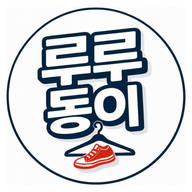
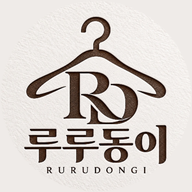
feat(order): 바로구매 → 「바로 주문」(카드)·「지금 바로 주문돼요」(옵션창), 쇼핑몰 진열 상품은 항상 바로 주문 · 카드 배지 종류별 색 알약(반짝임 없음) · 옵션창 「색상/사이즈를 선택해 주세요」는 담기 눌렀을 때만 · 주문 접수 창 「방송 알림 받는 중」 삭제·「휴대폰 홈 화면에 루루동이 주문서 바로가기 만들기」 · 홈 화면 아이콘 새 로고
표시 전용(주문·재고·금액 무접촉). DESIGN.md 배지 기준 갱신.

Claude-Session: https://claude.ai/code/session_01TQMBEC9h6c1TahmvDRkCND

diff --git a/app/order/page.tsx b/app/order/page.tsx
@@ -61,7 +61,7 @@ import { brandWordmarkThumbnail, normalizeBrandKorean, productNameThumbnail, pro
 import { toOptionList } from "@/lib/optionSplit";
 import { widgetPinnedProductId } from "@/lib/widgetPinState";
 // [2026-09-22] 상품 주문 안내 문구 — 문구 원문은 lib 한 곳에서만 정한다(관리자 설정과 같은 파일)
-import { resolveProductNoticePresentationFor, effectiveProductNoticeMode, isInstantOrderProduct } from "@/lib/productOrderNotice";
+import { resolveProductNoticePresentationFor, effectiveProductNoticeMode, isInstantOrderProduct, INSTANT_CARD_BADGE } from "@/lib/productOrderNotice";
 import {
   CUSTOMER_SESSION_VERSION_KEY,
   YOUTUBE_NICKNAME_CONFIRM_VERSION_KEY,
@@ -120,7 +120,7 @@ import {
 } from "@/lib/finalSubmitConfirmation";
 import PWAInstallBanner from "@/components/PWAInstallBanner";
 import { compareMixOrder, mixSeedForToday } from "@/lib/productMixOrder";
-import { pickCardBadgesS6, pickVisibleBadges, BADGE_INFO_KEYS, SOLD_RECENT_MIN_QTY, REPEAT_BADGE_MIN_BUYERS, TOP_SELLER_RANK_PCT, POPULAR_RANK_PCT, HOLDING_MIN_PEOPLE } from "@/lib/productBadgePriority";
+import { pickCardBadgesS6, cardBadgeTone, pickVisibleBadges, BADGE_INFO_KEYS, SOLD_RECENT_MIN_QTY, REPEAT_BADGE_MIN_BUYERS, TOP_SELLER_RANK_PCT, POPULAR_RANK_PCT, HOLDING_MIN_PEOPLE } from "@/lib/productBadgePriority";
 import ProductColorRowV2 from "@/components/customer/ProductColorRowV2";
 import { colorNameSwatch, isLightSwatch, resolveColorDisplay } from "@/lib/colorNameSwatch";
 import { restyleV2 } from "@/lib/customerUiV2Restyle";
@@ -3896,7 +3896,7 @@ export default function OrderPage() {
     });
   }, [broadcastProducts, groupBuyQuickProductsFromCatalog, broadcast?.status, broadcast?.widget_pin_mode, broadcast?.widget_pin_product_id]);
   // [㊺-3] 첫 화면 «지금 바로 주문 가능» 숫자 — 품절 아님 + 바로구매 기준(카드·옵션창과 같은 isInstantOrderProduct). 표시 전용.
-  const instantReadyCount = useMemo(() => quickGroupBuyProducts.filter((p) => !isSoldOutOrderProduct(p) && isInstantOrderProduct((parseProductSuggestionNote((p as any).product_note) as Record<string, unknown> | null)?.order_notice_mode, Array.isArray((p as any).badge_types) && (p as any).badge_types.length ? (p as any).badge_types : [(p as any).badge_type], productNoticeGlobal.mode)).length, [quickGroupBuyProducts, productNoticeGlobal.mode]);
+  const instantReadyCount = useMemo(() => quickGroupBuyProducts.filter((p) => !isSoldOutOrderProduct(p) && isInstantOrderProduct((parseProductSuggestionNote((p as any).product_note) as Record<string, unknown> | null)?.order_notice_mode, Array.isArray((p as any).badge_types) && (p as any).badge_types.length ? (p as any).badge_types : [(p as any).badge_type], productNoticeGlobal.mode, (p as any).in_shop)).length, [quickGroupBuyProducts, productNoticeGlobal.mode]);
 
   // ============ [재고 홀드] 담는 즉시 서버에 예약(15분) — 다른 고객 화면·품절 판정에 즉시 차감 반영 ============
   // ⚠ 진짜 재고 차감/복구는 기존 제출 RPC·취소 복구가 단일 소유(무변경). 이 예약은 표시용 선점 전용이라
@@ -7304,7 +7304,7 @@ export default function OrderPage() {
                                 /* [2026-07-23 사장님 지시] 업체배송 상품 카드 배지 — 표시 전용(배송비 계산과 무관) */
                                 { key: "company", on: productDeliveryLabel(product) === "업체배송", text: "🚚 업체배송", node: <span style={{ borderRadius: "4px", fontSize: "10px", fontWeight: 700, padding: "2px 6px", background: "#EEF2FA", color: "#3B5BA5" }}>🚚 업체배송</span> },
                                 /* 바로구매 — 사장님 지침대로 방송 켜짐/꺼짐과 무관하게 항상 표시(정보 배지, 개수 제한 밖) */
-                                { key: "direct", on: isInstantOrderProduct((parseProductSuggestionNote(product.product_note) as Record<string, unknown> | null)?.order_notice_mode, badges, productNoticeGlobal.mode), text: "🛒 바로구매", node: <span style={{ borderRadius: "4px", fontSize: "10px", fontWeight: 700, padding: "2px 6px", background: "#E8F0FE", color: "#1D4ED8" }}>🛒 바로구매</span> },
+                                { key: "direct", on: isInstantOrderProduct((parseProductSuggestionNote(product.product_note) as Record<string, unknown> | null)?.order_notice_mode, badges, productNoticeGlobal.mode, (product as any).in_shop), text: INSTANT_CARD_BADGE, node: <span style={{ borderRadius: "4px", fontSize: "10px", fontWeight: 700, padding: "2px 6px", background: "#E8F0FE", color: "#1D4ED8" }}>🛒 {INSTANT_CARD_BADGE}</span> },
                               ];
                               // [㉜] 새 모양 배지 — 흰 알약+hairline 13px(「특가」만 빨간 글자), 줄당 최대 3개(정보 배지 먼저, 남는 자리에 마케팅).
                               //   「N개 남음」은 배지가 아니라 가격 근처 글씨로(lowTextV2). 어떤 배지를 켤지 판정은 위 그대로.
@@ -7315,7 +7315,8 @@ export default function OrderPage() {
                                 if (sold || textBadges.length === 0) return null;
                                 return (
                                   <div style={{ display: "flex", gap: "8px", marginBottom: "4px", flexWrap: "wrap" }}>
-                                    {textBadges.map((b) => <span key={b.key} style={{ fontSize: "13px", fontWeight: 600, lineHeight: 1.4, color: (b.key === "special" || b.key === "limit") ? "#D30005" : "#111111" }}>{stripDecorativeEmojiV2(String(b.text))}</span>)}
+                                    {/* [2026-10-23 사장님] 배지마다 색 — 연한 바탕+진한 글씨 알약(cardBadgeTone). 반짝임·움직임 없음(읽기 어려움·접근성) */}
+                                    {textBadges.map((b) => { const tone = cardBadgeTone(b.key); return <span key={b.key} style={{ fontSize: "13px", fontWeight: 700, lineHeight: 1.4, color: tone.color, background: tone.bg, borderRadius: "4px", padding: "1px 6px" }}>{stripDecorativeEmojiV2(String(b.text))}</span>; })}
                                   </div>
                                 );
                               }
@@ -8165,6 +8166,7 @@ export default function OrderPage() {
               productCustom: optionNoticeNote.order_notice_custom,
               globalMode: productNoticeGlobal.mode,
               globalCustom: productNoticeGlobal.custom,
+              inShop: (registeredOptionSelectProduct as any).in_shop,
             });
             return (
           <CustomerBottomSheet
@@ -8690,7 +8692,7 @@ export default function OrderPage() {
                       )}
                       {!uiV2 && registeredOptionColorChoices.length > 4 && registeredOptionColorSwatches[registeredOptionColor] ? <ProductColorSwatches value={{[registeredOptionColor]:registeredOptionColorSwatches[registeredOptionColor]}}/> : null}
                       {/* [2026-08-28 P0-4] 문구가 사라질 때 아래 버튼이 위로 밀려 오클릭이 나던 문제 → 자리를 항상 잡아둔다 */}
-                      <div data-order-option-missing={!registeredOptionColor.trim() ? "true" : undefined} style={sv({ marginTop: "6px", minHeight: "18px", fontSize: "12px", fontWeight: 700, color: registeredOptionAttempted ? "#C0392B" : "#817379" })}>{!registeredOptionColor.trim() ? "색상을 선택해 주세요" : ""}</div>
+                      <div data-order-option-missing={!registeredOptionColor.trim() ? "true" : undefined} style={sv({ marginTop: "6px", minHeight: "18px", fontSize: "12px", fontWeight: 700, color: registeredOptionAttempted ? "#C0392B" : "#817379" })}>{!registeredOptionColor.trim() && registeredOptionAttempted ? "색상을 선택해 주세요" : ""}</div>
                     </div>
                   ) : null}
 
@@ -8754,7 +8756,7 @@ export default function OrderPage() {
                         </select>
                       )}
                       {/* [2026-08-28 P0-4] 문구가 사라질 때 아래 버튼이 위로 밀려 오클릭이 나던 문제 → 자리를 항상 잡아둔다 */}
-                      <div data-order-option-missing={!registeredOptionSize.trim() ? "true" : undefined} style={sv({ marginTop: "6px", minHeight: "18px", fontSize: "12px", fontWeight: 700, color: registeredOptionAttempted ? "#C0392B" : "#817379" })}>{!registeredOptionSize.trim() ? "사이즈를 선택해 주세요" : ""}</div>
+                      <div data-order-option-missing={!registeredOptionSize.trim() ? "true" : undefined} style={sv({ marginTop: "6px", minHeight: "18px", fontSize: "12px", fontWeight: 700, color: registeredOptionAttempted ? "#C0392B" : "#817379" })}>{!registeredOptionSize.trim() && registeredOptionAttempted ? "사이즈를 선택해 주세요" : ""}</div>
                       {/* [2026-09-20 사장님] 치수 칩 — 사이즈를 고르면 그 사이즈 열의 앞 3개 치수(가슴단면 57 …)를 바로 보여준다.
                           원천은 사이즈 실측표(size_charts) 그대로, 전체 표는 「사이즈 실측 보기」. 표시 전용. */}
                       {registeredOptionSizeChart && registeredOptionSize.trim() ? (() => {
@@ -8789,7 +8791,7 @@ export default function OrderPage() {
                       </div>
                       <input value={registeredOptionSize} onChange={(e) => setRegisteredOptionSize(e.target.value)} placeholder="사이즈를 적어주세요 (예: 66, 프리)" style={sv({ height: "46px", width: "100%", boxSizing: "border-box", borderRadius: "14px", border: !registeredOptionSize.trim() ? "2px dashed #E2B64D" : "1.5px solid #E8E2DD", background: !registeredOptionSize.trim() ? "#FFFDF5" : "#fff", padding: "0 14px", fontSize: "15px", fontWeight: 700, color: "#222", outline: "none" })} />
                       {/* [2026-08-28 P0-4] 문구가 사라질 때 아래 버튼이 위로 밀려 오클릭이 나던 문제 → 자리를 항상 잡아둔다 */}
-                      <div data-order-option-missing={!registeredOptionSize.trim() ? "true" : undefined} style={sv({ marginTop: "6px", minHeight: "18px", fontSize: "12px", fontWeight: 700, color: registeredOptionAttempted ? "#C0392B" : "#817379" })}>{!registeredOptionSize.trim() ? "사이즈를 입력해 주세요" : ""}</div>
+                      <div data-order-option-missing={!registeredOptionSize.trim() ? "true" : undefined} style={sv({ marginTop: "6px", minHeight: "18px", fontSize: "12px", fontWeight: 700, color: registeredOptionAttempted ? "#C0392B" : "#817379" })}>{!registeredOptionSize.trim() && registeredOptionAttempted ? "사이즈를 입력해 주세요" : ""}</div>
                     </div>
                   ) : null}
 

diff --git a/components/customer/CustomerPaymentGuideBottomSheet.tsx b/components/customer/CustomerPaymentGuideBottomSheet.tsx
@@ -284,24 +284,20 @@ export default function CustomerPaymentGuideBottomSheet({
             </section>
           )}
 
-          {/* 주문완료 = 참여도 최고점 — 알림 신청·앱 추가는 한 줄 버튼 2개로만 */}
-          {isOrderComplete && (onLiveAlertRequest || !isStandaloneApp) && (
+          {/* 주문완료 = 참여도 최고점 — 알림 신청·앱 추가는 한 줄 버튼 2개로만
+              [2026-10-23 사장님] 「방송 알림 받는 중」 상태 칸 삭제(누를 것도 아닌데 버튼처럼 보임) · 홈 화면 추가는 무엇인지 알아보게 문장으로 */}
+          {isOrderComplete && ((onLiveAlertRequest && !liveAlertOptin) || !isStandaloneApp) && (
             <section style={s5({ marginTop: "12px" })}>
-              <div style={s5({ display: "grid", gridTemplateColumns: onLiveAlertRequest && !isStandaloneApp ? "1fr 1fr" : "1fr", gap: "8px" })}>
-                {onLiveAlertRequest ? (
-                  liveAlertOptin ? (
-                    <div style={s5({ minHeight: "44px", display: "flex", alignItems: "center", justifyContent: "center", borderRadius: "12px", background: "#E1F5EE", border: "1px solid #C7EBDD", padding: "0 10px", fontSize: "12.5px", fontWeight: 800, color: "#0F6E56", textAlign: "center", wordBreak: "keep-all" })}>
-                      {v5 ? "방송 알림 받는 중" : "🔔 방송 알림 받는 중"}
-                    </div>
-                  ) : (
-                    <button type="button" disabled={liveAlertSaving} onClick={onLiveAlertRequest} style={s5({ minHeight: "44px", borderRadius: "12px", border: "1px solid #D9C5CC", background: "#fff", padding: "0 10px", fontSize: "12.5px", fontWeight: 800, color: "#7B2D43", cursor: "pointer" })}>
-                      {liveAlertSaving ? "신청 중..." : v5 ? "방송 알림 받기" : "🔔 방송 알림 받기"}
-                    </button>
-                  )
+              <div style={s5({ display: "grid", gridTemplateColumns: "1fr", gap: "8px" })}>
+                {onLiveAlertRequest && !liveAlertOptin ? (
+                  <button type="button" disabled={liveAlertSaving} onClick={onLiveAlertRequest} style={s5({ minHeight: "44px", borderRadius: "12px", border: "1px solid #D9C5CC", background: "#fff", padding: "0 10px", fontSize: "12.5px", fontWeight: 800, color: "#7B2D43", cursor: "pointer" })}>
+                    {liveAlertSaving ? "신청 중..." : v5 ? "방송 알림 받기" : "🔔 방송 알림 받기"}
+                  </button>
                 ) : null}
                 {!isStandaloneApp ? (
-                  <button type="button" onClick={handleInstallClick} style={s5({ minHeight: "44px", borderRadius: "12px", border: "1px solid #D9C5CC", background: "#fff", padding: "0 10px", fontSize: "12.5px", fontWeight: 800, color: "#7B2D43", cursor: "pointer" })}>
-                    {v5 ? "홈 화면에 추가" : "📲 홈 화면에 추가"}
+                  <button type="button" onClick={handleInstallClick} style={s5({ minHeight: "52px", borderRadius: "12px", border: "1px solid #D9C5CC", background: "#fff", padding: "8px 12px", fontSize: "14px", fontWeight: 800, color: "#7B2D43", cursor: "pointer", lineHeight: 1.35, wordBreak: "keep-all" })}>
+                    {v5 ? "휴대폰 홈 화면에 루루동이 주문서 바로가기 만들기" : "📲 휴대폰 홈 화면에 루루동이 주문서 바로가기 만들기"}
+                    <span style={s5({ display: "block", marginTop: "2px", fontSize: "12px", fontWeight: 600, color: "#8A7A7D" })}>다음부터 아이콘 한 번 누르면 바로 주문서가 열려요</span>
                   </button>
                 ) : null}
               </div>

diff --git a/lib/productOrderNotice.ts b/lib/productOrderNotice.ts
@@ -133,13 +133,16 @@ export function resolveProductNoticePresentationFor(input: {
   productCustom?: unknown;
   globalMode?: unknown;
   globalCustom?: unknown;
+  /** [2026-10-23] 쇼핑몰 진열 상품(in_shop)은 설정 없이도 무조건 바로 주문 */
+  inShop?: unknown;
 }): ProductNoticePresentation {
+  if (input.inShop === true) return { badge: INSTANT_BADGE_TEXT, message: "" };
   const productMode = parseProductNoticeProductMode(input.productMode);
   const mode = productMode === "inherit" ? parseProductNoticeMode(input.globalMode) : productMode;
   const custom = productMode === "inherit" ? input.globalCustom : input.productCustom;
 
-  if (mode === "instant") return { badge: "바로 구매 가능", message: "" };
-  if (mode === "live_only") return { badge: "방송 접수 후 구매 가능", message: "" };
+  if (mode === "instant") return { badge: INSTANT_BADGE_TEXT, message: "" };
+  if (mode === "live_only") return { badge: "방송에서 접수한 분만 주문", message: "" };
   if (mode === "custom") return { badge: "", message: resolveProductOrderNotice(mode, custom) };
   return { badge: "", message: "" };
 }
@@ -151,7 +154,12 @@ export function effectiveProductNoticeMode(productMode: unknown, badgeTypes: unk
   const list = Array.isArray(badgeTypes) ? badgeTypes : [badgeTypes];
   return list.map((x) => String(x ?? "").trim().toLowerCase()).includes("direct") ? "instant" : "inherit";
 }
-export function isInstantOrderProduct(productMode: unknown, badgeTypes: unknown, globalMode: unknown): boolean {
+// [2026-10-23 사장님 「난독증 손님도 알아듣게」] 옵션창 가격 옆 = 「지금 바로 주문돼요」, 상품 카드 배지 = 「바로 주문」
+export const INSTANT_BADGE_TEXT = "지금 바로 주문돼요";
+export const INSTANT_CARD_BADGE = "바로 주문";
+/** 바로 주문 상품인지 — [2026-10-23] 쇼핑몰 진열(in_shop=true) 상품은 설정과 무관하게 무조건 바로 주문 */
+export function isInstantOrderProduct(productMode: unknown, badgeTypes: unknown, globalMode: unknown, inShop?: unknown): boolean {
+  if (inShop === true) return true;
   const m = effectiveProductNoticeMode(productMode, badgeTypes);
   return m === "inherit" ? parseProductNoticeMode(globalMode) === "instant" : m === "instant";
 }

diff --git a/lib/productBadgePriority.ts b/lib/productBadgePriority.ts
@@ -145,3 +145,23 @@ export function pickCardBadgesS6(activeKeys: BadgeKey[], max = 2): BadgeKey[] {
   const rest = Array.from(pickVisibleBadges(uniq.filter((k) => !head.includes(k as (typeof CARD_BADGE_HEAD_S6)[number])), 99));
   return [...head, ...rest].slice(0, Math.max(0, max));
 }
+
+// [2026-10-23 사장님 「배지 단어마다 색깔 달라야 눈에 띔」] 상품 카드 배지 = 종류마다 연한 바탕 + 진한 글씨 알약(13px).
+//   반짝임·움직임은 넣지 않는다 — 깜빡이는 글씨는 읽기 어렵고(중장년 손님) 웹 접근성 기준(WCAG 2.2.2·2.3.1)에도 걸린다.
+//   쿠팡(로켓배송 파랑)·무신사(단독·쿠폰 색 구분)처럼 «색으로 종류 구분»만. 대비 4.5:1 이상 색만 씀.
+export const CARD_BADGE_TONE: Record<string, { color: string; bg: string }> = {
+  special: { color: "#D30005", bg: "#FDECEC" },   // 특가 — 빨강
+  limit: { color: "#FFFFFF", bg: "#D30005" },     // 마감임박 — 빨강 바탕(가장 급함)
+  direct: { color: "#0B6B3A", bg: "#E5F4EC" },    // 바로 주문 — 초록
+  new: { color: "#1D4ED8", bg: "#EAF0FF" },       // 신상 — 파랑
+  company: { color: "#8A4B00", bg: "#FFF1DC" },   // 업체배송 — 갈색
+  overseas: { color: "#6B2FA3", bg: "#F3ECFB" },  // 해외배송 — 보라
+  freeship: { color: "#0E6274", bg: "#E3F3F6" },  // 무료배송 — 청록
+  hot: { color: "#B53A00", bg: "#FFEDE3" },       // 인기 — 주황
+  trending: { color: "#B53A00", bg: "#FFEDE3" },  // 급상승 — 주황
+  pick: { color: "#9C1C5B", bg: "#FCE8F1" },      // 루루픽 — 자주
+  free: { color: "#0B6B3A", bg: "#E5F4EC" },      // 무료나눔 — 초록
+};
+export function cardBadgeTone(key: string): { color: string; bg: string } {
+  return CARD_BADGE_TONE[key] || { color: "#39393B", bg: "#F0F0F0" };
+}

diff --git a/components/admin-live/quick-product/QuickProductFastForm.tsx b/components/admin-live/quick-product/QuickProductFastForm.tsx
@@ -3739,8 +3739,9 @@ export default function QuickProductFastForm({
                     <button type="button" aria-pressed={!instant} style={btn(!instant)} onClick={() => { setFormTouched(true); setOrderNoticeMode("live_only"); setBadgeTypes((prev) => prev.filter((x) => x !== "direct")); }}>방송 접수 후 구매</button>
                   </div>
                   <div style={{ marginTop: "6px", fontSize: "11px", color: "var(--color-ink-mute)" }}>
-                    {instant ? "방송 접수 없이 바로 주문할 수 있어요 · 손님 카드에 「바로구매」 표시" : "방송에서 접수한 분만 주문할 수 있어요"}
+                    {instant ? "방송 접수 없이 바로 주문할 수 있어요 · 손님 카드에 「바로 주문」 표시" : "방송에서 접수한 분만 주문할 수 있어요"}
                   </div>
+                  <div style={{ marginTop: "2px", fontSize: "11px", color: "var(--color-ink-mute)" }}>쇼핑몰에 진열한 상품은 이 설정과 상관없이 항상 「바로 주문」이에요</div>
                 </>
               );
             })()}

diff --git a/app/manifest.ts b/app/manifest.ts
@@ -3,7 +3,8 @@ import type { MetadataRoute } from "next";
 // [2026-09-20] 손님 폰 홈 화면 설치(PWA) 설정.
 //   근거: MDN 「Define your app icons」 + web app manifest 스펙 + evilmartians 「How to Favicon in 2026」(직접 확인).
 //   아이콘 파일은 app/ 폴더 규칙(favicon.ico · icon.svg · apple-icon.png)으로 자동 연결되고,
-//   설치 아이콘(192/512/maskable)은 예전 루루동이 로고 그대로 — 이미 설치한 손님의 아이콘이 안 바뀐다.
+//   [2026-10-23 사장님] 홈 화면 아이콘 = 새 루루동이 로고(옷걸이 RD·종이 바탕). 192/512/maskable(안전영역 82%)·apple-icon 180·favicon 모두 같은 그림.
+//   이미 추가한 손님: 안드로이드 크롬은 며칠 안에 새 아이콘으로 자동 갱신, 아이폰은 지우고 다시 추가해야 바뀐다.
 export default function manifest(): MetadataRoute.Manifest {
   return {
     // id 를 고정해야 start_url 을 바꿔도 «같은 앱»으로 인식돼 중복 설치가 안 생긴다(W3C manifest id)

diff --git a/DESIGN.md b/DESIGN.md
@@ -107,7 +107,8 @@ size:
 - 할인: 정가 14px mute 취소선 + 「N% 할인」 sale 600 → 아래 판매가 20px/700 ink.
 - **남은 수량**: 남은 수량이 **10개 이하일 때만** 가격 근처에 sale 빨간 글씨 「N개 남음」(이모지·색 배지 없음). 0개면 「품절」, 담기 막힘. 숫자 계산(재고 − 다른 손님 장바구니 선점)은 현행 그대로.
 - **판매 수량은 표시하지 않음** (「N개 판매」, 「N명 구매」 등 금지).
-- **[2026-10-20 ㊴ 6단계]** 배지 = 테두리 없는 13px 글자 «최대 2개» — 「특가」만 sale 빨강(#D30005), 나머지 mute(#707072). 우선순위 특가 > 바로구매 > 신상 > 그 외(lib/productBadgePriority pickCardBadgesS6). 「방송 접수 없이 지금 바로 구매 가능」 문장 삭제(「바로구매」 배지와 중복).
+- **[2026-10-23 사장님]** 카드 배지 = 종류마다 **연한 바탕 + 진한 글씨 알약**(13px/700, 모서리 4) «최대 2개» — 특가 빨강 #D30005/#FDECEC · 마감임박 흰 글씨/#D30005 · 바로 주문 초록 #0B6B3A/#E5F4EC · 신상 파랑 #1D4ED8/#EAF0FF · 업체배송 갈색 #8A4B00/#FFF1DC · 해외배송 보라 #6B2FA3/#F3ECFB · 무료배송 청록 · 인기·급상승 주황 · 루루픽 자주(lib/productBadgePriority CARD_BADGE_TONE). **반짝임·움직임 금지**(읽기 어려움·WCAG 2.2.2/2.3.1). 「바로구매」 글자 → 카드 「바로 주문」, 옵션창 가격 옆 「지금 바로 주문돼요」, 방송 접수 상품 「방송에서 접수한 분만 주문」. 쇼핑몰 진열(in_shop) 상품은 설정 없이 항상 바로 주문. 옵션창 「색상/사이즈를 선택해 주세요」 회색 안내는 담기를 눌렀을 때만(빨강) — 버튼 글자와 중복 금지. 주문 접수 창: 「방송 알림 받는 중」 칸 없음, 「휴대폰 홈 화면에 루루동이 주문서 바로가기 만들기」+「다음부터 아이콘 한 번 누르면 바로 주문서가 열려요」. 홈 화면 아이콘 = 새 루루동이 로고(옷걸이 RD).
+- (옛 기준·대체됨) **[2026-10-20 ㊴ 6단계]** 배지 = 테두리 없는 13px 글자 «최대 2개» — 「특가」만 sale 빨강(#D30005), 나머지 mute(#707072). 우선순위 특가 > 바로구매 > 신상 > 그 외(lib/productBadgePriority pickCardBadgesS6). 「방송 접수 없이 지금 바로 구매 가능」 문장 삭제(「바로구매」 배지와 중복).
 - **[2026-10-20 ㊴ 6단계]** 상품 칸 아무 데나 탭 = 옵션 창(「+ 담기」와 같은 동작). 사진 탭도 옵션 창(확대는 옵션 창 사진·「크게」). 품절 상품은 칸 탭 동작 없음·사진은 지금처럼 확대. 칸 안의 버튼(「+ 담기」·세부상품 줄 등)은 자기 동작.
 - **「+ 담기」(크게 보기)**: 사진 오른쪽 아래 안쪽 8px, ink #111111 알약 높이 40px(누르는 범위는 둘레 여백 포함 44px 이상), 흰 글자 15/600, + 는 얇은 선 아이콘(1.5px), 흰 1.5px 테두리(어두운 사진에서도 보이게). 사진 확대 버튼 «안»이 아니라 형제로 겹침 — 담기를 눌러도 확대는 안 열리고, 사진의 나머지 부분은 지금처럼 확대. 품절이면 회색 「품절」·눌리지 않음(기존 규칙 그대로).
 
